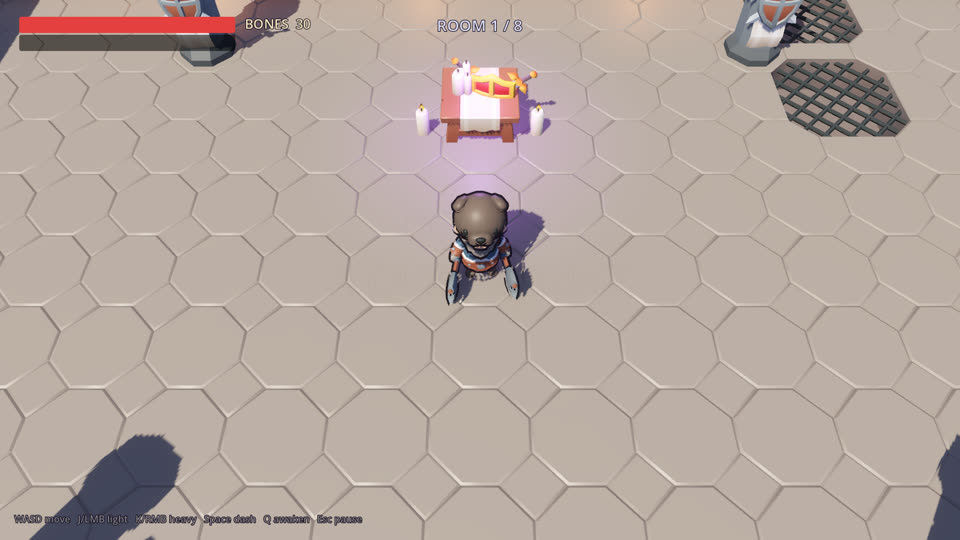
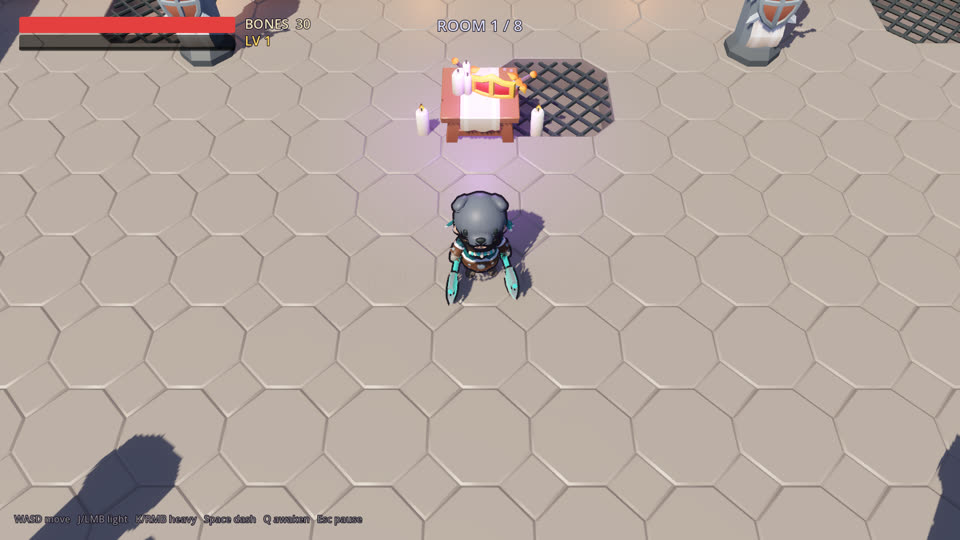
docs: wiki shaman, levels and Ascendancy

diff --git a/docs/wiki/index.html b/docs/wiki/index.html
@@ -105,7 +105,9 @@ footer { color: var(--bone-dim); font-size: 13px; border-top: 1px solid var(--li
     <a href="#play">Play it in Godot</a>
     <a href="#controls">Controls</a>
     <a href="#combat">Moves &amp; combos</a>
+    <a href="#shaman">The shaman</a>
     <a href="#awakening">Style &amp; Awakening</a>
+    <a href="#ascend">Levels &amp; Ascendancy</a>
     <a href="#run">The run</a>
     <a href="#bestiary">Bestiary</a>
     <a href="#warden">The Bone Warden</a>
@@ -119,7 +121,7 @@ footer { color: var(--bone-dim); font-size: 13px; border-top: 1px solid var(--li
     <header class="hero">
       <div class="eyebrow" id="built"></div>
       <h1>Awaken</h1>
-      <p>A fast 3D combo roguelike. You are a barbarian fighting through rooms of skeletons to the Bone Warden. Light and heavy strings, dash cancels, launches and juggles feed a style rank, the style rank fills Awakening, and every reward is a power bolted onto one specific move.</p>
+      <p>A fast 3D combo roguelike. You are an axe-wielding shaman fighting through rooms of skeletons to the Bone Warden. Light and heavy strings, dash cancels, launches and juggles feed a style rank, the style rank fills Awakening, and every reward is a power bolted onto one specific move.</p>
       <div class="statline" id="statline"></div>
       <p class="note warn" id="nodata">data.js is missing. Run <code>python tools/wiki.py</code> from the repo.</p>
     </header>
@@ -179,12 +181,37 @@ footer { color: var(--bone-dim); font-size: 13px; border-top: 1px solid var(--li
       <p id="dash-text"></p>
     </section>
 
+    <section id="shaman">
+      <h2>The shaman</h2>
+      <div class="split">
+        <div style="display:grid;gap:12px;min-width:0">
+          <p>An enhancement shaman with twin rune-carved axes, a grey wolf-pelt hood, feathers and a bead-and-fang necklace. The axes shimmer teal at rest.</p>
+          <p>Awakening calls the ancestors: the shaman glows <b style="color:var(--gold)">gold</b> until reaching level <span id="lvmax"></span>, then takes on the chosen element's colour and power.</p>
+          <p class="lede">Built on the KayKit Barbarian. The texture is recoloured by <code>tools/gen_shaman_texture.gd</code>, and the extra pieces come from <code>scripts/hero_look.gd</code>.</p>
+        </div>
+        <figure>
+          <img src="img/hero_preview.jpg" alt="The shaman front and back, then Awakened in gold, wind green, magma red and ice blue" loading="lazy">
+          <figcaption><b>Front, back, then Awakened</b>: base, Wind, Earth, Water.</figcaption>
+        </figure>
+      </div>
+    </section>
+
     <section id="awakening">
       <h2>Style &amp; Awakening</h2>
       <p>Each hit adds style. A move you haven't used recently is worth four times a repeat, so mixing routes climbs the rank and mashing one button stalls it. Higher ranks fill Awakening faster, and the combat music layer fades in with your rank.</p>
       <div class="ranks" id="ranks" aria-label="Style ranks and their thresholds"></div>
       <p id="awaken-text"></p>
       <p id="air-text"></p>
+    </section>
+
+    <section id="ascend">
+      <h2>Levels &amp; Ascendancy</h2>
+      <p id="level-text"></p>
+      <div id="ascend-table"></div>
+      <figure>
+        <img src="img/autotest_ascend.jpg" alt="The Ascendancy choice screen" loading="lazy">
+        <figcaption><b>The choice</b> appears after the room in which you reach level <span class="lvmax"></span>. Every run ascends once.</figcaption>
+      </figure>
     </section>
 
     <section id="run">
@@ -323,7 +350,25 @@ footer { color: var(--bone-dim); font-size: 13px; border-top: 1px solid var(--li
     return '<div><b style="color:' + col + '">' + r[0] + "</b><small>" + r[1] + "</small></div>";
   }).join("");
   $("awaken-text").innerHTML = "When the meter is full, press <kbd>Q</kbd> to <b>Awaken</b> for " + n(H.awaken_duration) +
-    "s: faster, harder hits, super armor, less damage taken, and the Cataclysm finisher unlocked.";
+    "s: faster, harder hits, super armor, less damage taken, and the finisher unlocked. It's short on purpose: nothing extends it, the meter can't fill while you're Awakened, and it ends empty.";
+
+  // Levels + Ascendancy
+  var L = D.levels;
+  $("lvmax").textContent = L.max;
+  document.querySelectorAll(".lvmax").forEach(function (el) { el.textContent = L.max; });
+  $("level-text").innerHTML = "Kills give XP equal to the skeleton's bones (risen and split minions give none). Levels come at " +
+    L.xp.map(function (x, i) { return "<b>" + (i + 2) + "</b> " + x + " XP"; }).join(", ") + ", each adding " + n(H.level_hp) +
+    " max HP. That usually puts level " + L.max + " around room 5. At level " + L.max + " you choose an <b>Ascendancy</b>, and it reshapes Awakening for the rest of the run:";
+  var A = D.ascendancy;
+  $("ascend-table").innerHTML = table(["Path", "While Awakened", "Finisher (L L L H)", "Key numbers"], Object.keys(A).map(function (k) {
+    var a = A[k], nt = note("ascendancy", k), nums;
+    if (k === "wind") nums = "speed ×" + a.speed + ", dash cooldown ×" + a.dash_cd + ", strike " + a.strike_damage + " dmg every " + a.strike_every + " hits; tempest " + a.tempest_time + "s, " + a.tempest_strikes + " strikes × " + a.tempest_damage;
+    else if (k === "earth") nums = "damage taken ×" + a.armor + ", magma " + a.magma_damage + " dmg / " + a.magma_tick + "s for " + a.magma_time + "s; " + a.volcano_bombs + " bombs × " + a.bomb_damage;
+    else if (k === "water") nums = "slow ×" + a.chill_slow + ", freeze after " + a.freeze_hits + " hits for " + a.freeze_time + "s, frozen hit ×" + a.shatter_mult + "; glacier " + a.glacier_damage + " dmg, freeze " + a.glacier_freeze + "s";
+    else nums = "";
+    return ['<b style="color:#' + a.color + '">' + esc(a.name) + "</b><br><span class=\"lede\">" + esc(a.title.toLowerCase()) + "</span>",
+      nt ? esc(nt.passive) : miss(), "<b>" + esc(a.finisher) + "</b>: " + (nt ? esc(nt.finisher) : miss()), nums];
+  }));
   $("air-text").innerHTML = "Juggle milestones pay out bonus style and Awakening: " + Object.keys(D.air_milestones).map(function (k) {
     var a = D.air_milestones[k]; return "<b>" + a.text + "</b> at " + k + " air hits (+" + n(a.awaken) + ")"; }).join(", ") + ".";
 

diff --git a/docs/wiki/data.js b/docs/wiki/data.js
@@ -1,7 +1,7 @@
 // Generated by tools/wiki_data.gd; don't edit by hand.
 window.WIKI = {
-  "built": "2026-10-31 15:17:54",
-  "commit": "a5a1524",
+  "built": "2026-10-31 16:10:51",
+  "commit": "b965fa9",
   "branch": "dev",
   "hero": {
     "max_hp": 100.0,
@@ -12,10 +12,11 @@ window.WIKI = {
     "input_buffer": 0.25,
     "aim_assist_range": 5.5,
     "aim_assist_angle": 70.0,
-    "awaken_duration": 12.0,
+    "awaken_duration": 8.0,
     "perfect_dodge_window": 0.15,
     "perfect_dodge_refund": 20.0,
     "perfect_dodge_stun": 1.2,
+    "level_hp": 5.0,
     "charge_time": 0.8,
     "charge_move_mult": 0.35
   },
@@ -646,19 +647,6 @@ window.WIKI = {
       }
     },
     {
-      "id": "long_night",
-      "name": "Long Night",
-      "slot": "Awaken",
-      "desc": "Awakening lasts {bonus}% longer.",
-      "lv": {
-        "bonus": [
-          50,
-          80,
-          110
-        ]
-      }
-    },
-    {
       "id": "phoenix_heart",
       "name": "Phoenix Heart",
       "slot": "Awaken",
@@ -827,7 +815,6 @@ window.WIKI = {
       "name": "Night",
       "ids": [
         "overflow",
-        "long_night",
         "phoenix_heart"
       ],
       "desc": "Awakening powers are 25% stronger",
@@ -952,5 +939,68 @@ window.WIKI = {
         80
       ]
     }
-  }
+  },
+  "levels": {
+    "xp": [
+      4,
+      12,
+      24,
+      40,
+      60
+    ],
+    "max": 6
+  },
+  "ascendancy": {
+    "wind": {
+      "name": "Wind",
+      "title": "TEMPEST ASCENDANT",
+      "color": "8cff99",
+      "finisher": "Tempest",
+      "desc": "Faster, quicker dashes, lightning every 3rd hit",
+      "speed": 1.25,
+      "dash_cd": 0.5,
+      "strike_every": 3,
+      "strike_damage": 10.0,
+      "strike_radius": 1.8,
+      "tempest_time": 2.2,
+      "tempest_radius": 6.5,
+      "tempest_pull": 7.0,
+      "tempest_strikes": 8,
+      "tempest_damage": 10.0
+    },
+    "earth": {
+      "name": "Earth",
+      "title": "MAGMA ASCENDANT",
+      "color": "ff4d14",
+      "finisher": "Eruption",
+      "desc": "Tougher, heavy moves leave burning magma",
+      "armor": 0.45,
+      "magma_damage": 5.0,
+      "magma_tick": 0.4,
+      "magma_time": 3.0,
+      "magma_radius": 1.5,
+      "volcano_time": 2.6,
+      "volcano_bombs": 12,
+      "volcano_range": 8.0,
+      "bomb_damage": 14.0,
+      "bomb_radius": 2.2
+    },
+    "water": {
+      "name": "Water",
+      "title": "TIDE ASCENDANT",
+      "color": "80d9ff",
+      "finisher": "Glacier",
+      "desc": "Hits chill foes, 4 hits freeze them solid",
+      "chill_time": 2.0,
+      "chill_slow": 0.55,
+      "freeze_hits": 4,
+      "freeze_time": 1.6,
+      "shatter_mult": 1.5,
+      "glacier_radius": 6.5,
+      "glacier_damage": 16.0,
+      "glacier_freeze": 2.5,
+      "glacier_spikes": 18
+    }
+  },
+  "ascend_base_color": "ffc74d"
 };

diff --git a/docs/wiki/notes.js b/docs/wiki/notes.js
@@ -32,6 +32,11 @@ window.NOTES =
     "spikes": {"name": "Spike line", "enraged": true, "note": "Bone spikes run at you, steering; each flags red just before it stabs. Sidestep."},
     "cage": {"name": "Bone cage", "enraged": true, "note": "A ring of bone walls closes in, turning, with one gap. Leave through the gap or dash through a wall."}
   },
+  "ascendancy": {
+    "wind": {"passive": "Light green storm. Faster movement, quicker dashes, and every few hits calls a lightning bolt on the target.", "finisher": "a cyclone that drags foes to its centre and strikes them with lightning."},
+    "earth": {"passive": "Magma and stone. Takes much less damage, and heavy moves leave pools of burning magma.", "finisher": "a volcano bursts up and lobs lava bombs at nearby foes; each bomb leaves magma."},
+    "water": {"passive": "Ice and tide. Hits chill (slow) foes; enough hits freeze them solid, and the next hit shatters the ice for bonus damage.", "finisher": "ice spikes burst up all around, damaging and freezing everyone in range (the boss is only chilled)."}
+  },
   "twists": {
     "hasted": {"note": "Enemies move faster with shorter windups and recovery."},
     "armored": {"note": "Enemies have more HP."},
@@ -40,6 +45,8 @@ window.NOTES =
   },
   "screens": [
     {"img": "menu_title", "title": "Title screen", "caption": "Start, Daily run, Bone altar, Settings. Recent runs show on the right once you have some.", "review": "Is the title strong enough, or does it want art behind it?"},
+    {"img": "hero_preview", "title": "The shaman", "caption": "Recoloured Barbarian with feathers, necklace and axe runes; Awakened in each element.", "review": "Does he read as a shaman? Feathers and necklace the right size?"},
+    {"img": "autotest_ascend", "title": "Ascendancy choice", "caption": "Picked once per run at level 6.", "review": "Is one line per path enough to choose by?"},
     {"img": "autotest_callout", "title": "Combo callout", "caption": "Landing a named combo shows its name above the hero with a tier sound.", "review": "Is the size right? Are the three sounds distinct but quiet?"},
     {"img": "autotest_finisher", "title": "Cataclysm", "caption": "The Awakened L L L H finisher.", "review": "Does the payoff feel big enough for a full meter?"},
     {"img": "autotest_spikes", "title": "Spike line", "caption": "Enraged Warden attack.", "review": "Fair to sidestep, or too fast?"},

diff --git a/tools/wiki.py b/tools/wiki.py
@@ -32,6 +32,8 @@ SHOTS = [
     (["--", "--autotest", "--start-shrine"], ["autotest_shrine_room"]),
     (["-s", "tests/menu_check.gd"], ["menu_title", "menu_path", "menu_pause", "menu_altar"]),
     (["-s", "tests/enemy_lineup.gd"], ["enemy_lineup"]),
+    (["--", "--autotest", "--level=6"], ["autotest_ascend"]),
+    (["-s", "tests/hero_preview.gd"], ["hero_preview"]),
 ]
 
 
@@ -56,7 +58,7 @@ def check_notes():
         if m not in notes["moves"]:
             missing.append("moves." + m)
     for section, ids in (("enemies", data["enemies"]), ("boss_attacks", data["boss"]["attacks"]),
-                         ("twists", data["twists"])):
+                         ("twists", data["twists"]), ("ascendancy", data["ascendancy"])):
         missing += ["%s.%s" % (section, i) for i in ids if i not in notes[section]]
     stale = [i for i in notes["moves"] if i not in data["moves"]]
     for s in notes["screens"]:
